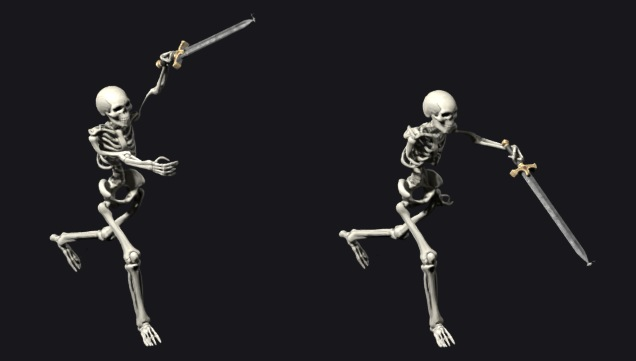
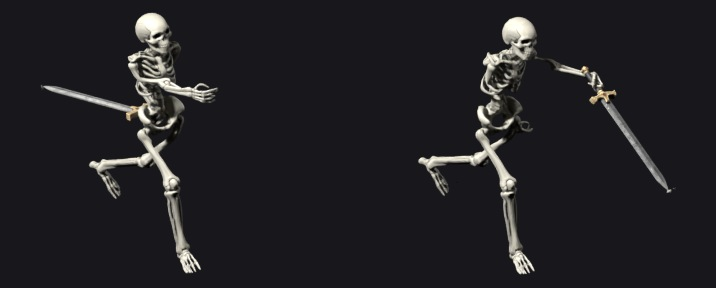
Correct the counterswing section: the weapon hand was not drawn back either

Changed region(s): [[0.5377, 0.0625, 0.956, 0.9688], [0.0597, 0.0312, 0.3884, 0.9688], [0.3884, 0.0312, 0.4182, 0.0625]]

diff --git a/content/posts/what-holds-the-weapon.md b/content/posts/what-holds-the-weapon.md
@@ -121,20 +121,32 @@ side from the direction the creature faces.
 A body swinging a weapon puts the weapon hand back and the free hand forward on
 the wind-up, then trades them on the strike. Measured against the hips:
 
-| `ATTACK_FRONT` | rest | wind-up | strike |
+| `ATTACK_FRONT`, hand vs hips | rest | wind-up | strike |
 |---|---|---|---|
-| weapon hand | +0.29 | +0.03 | +0.42 |
 | free hand, before | +0.33 | +0.33 | +0.33 |
 | free hand, after | +0.33 | +0.39 | −0.04 |
+| weapon hand, before | +0.29 | +0.03 | +0.42 |
+| weapon hand, after | +0.29 | **−0.11** | +0.42 |
 
-The weapon hand was already doing its job — drawing back to +0.03, driving
-through to +0.42. The free hand sat at +0.33 in every frame of every attack,
-because the keys never named it, so it stayed in the base stance while
-everything else moved.
+The free hand sat at +0.33 in every frame of every attack, because the keys
+never named it: it stayed in the base stance while everything else moved.
+
+The weapon hand needed fixing too, and its number is why I nearly missed it.
++0.03 at the wind-up against the free hand's +0.39 reads like a draw-back. It is
+not one. **Raising an arm pulls the hand up, not back** — the whole arm was
+reaching forward across the chest with the blade already pointing the way it was
+about to travel. The measurement was true and the conclusion drawn from it was
+wrong.
+
+A wind-up needs positive X on the upper arm, the opposite sign from the strike.
+And the shoulder alone cannot do it: the blade follows the forearm, so however
+far back the arm goes the sword still points forward. The wrist has to turn it
+over. Solving for a target — hand behind the hips, tip behind and above — rather
+than guessing again gives the tip at −0.57 behind and +0.93 above.
 
 <figure>
   <img src="/images/vcmi/arm-counterswing.jpg" alt="Wind-up and strike, showing the two hands trading places">
-  <figcaption>Wind-up and strike. The free hand leads on the left and trails on the right.</figcaption>
+  <figcaption>Wind-up and strike. The sword is cocked behind the shoulder with the free hand forward, then they trade.</figcaption>
 </figure>
 
 The free arm takes the same sign convention as the weapon arm: negative X on the
